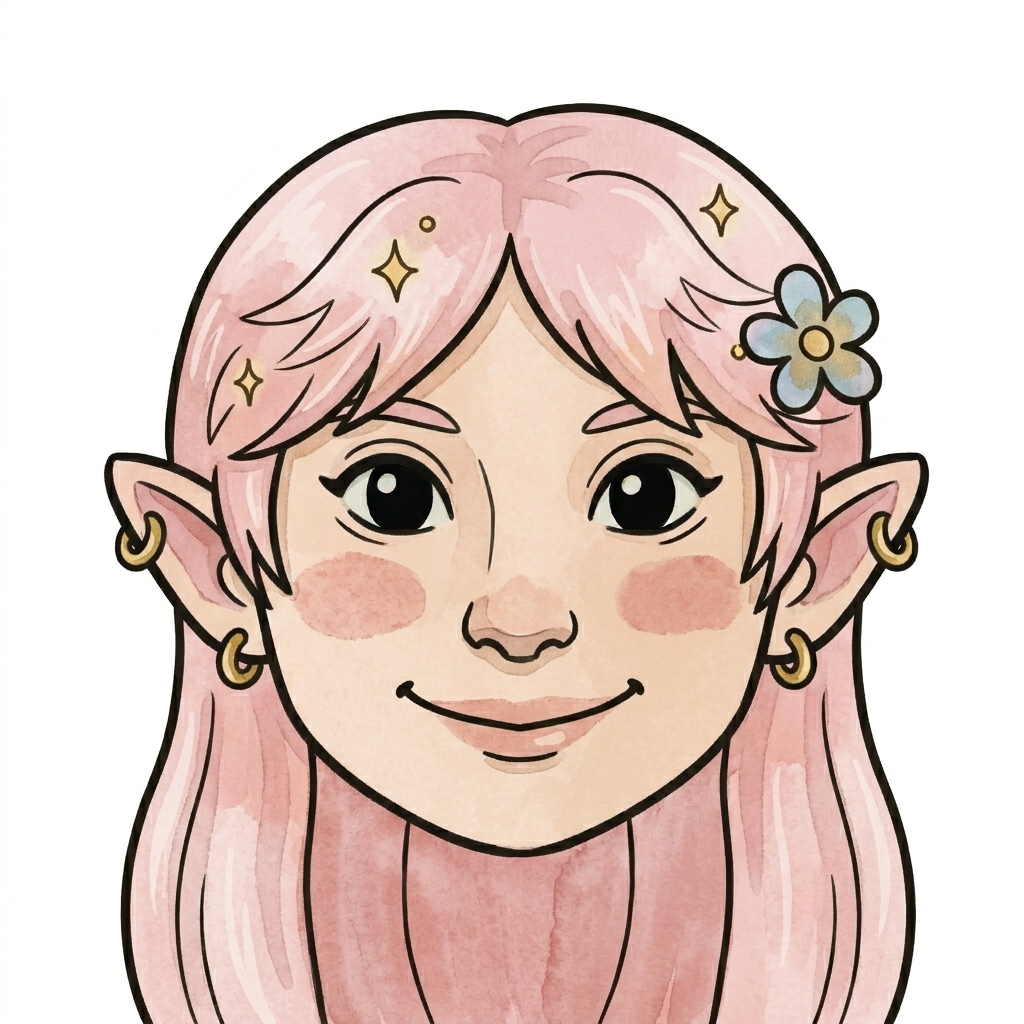
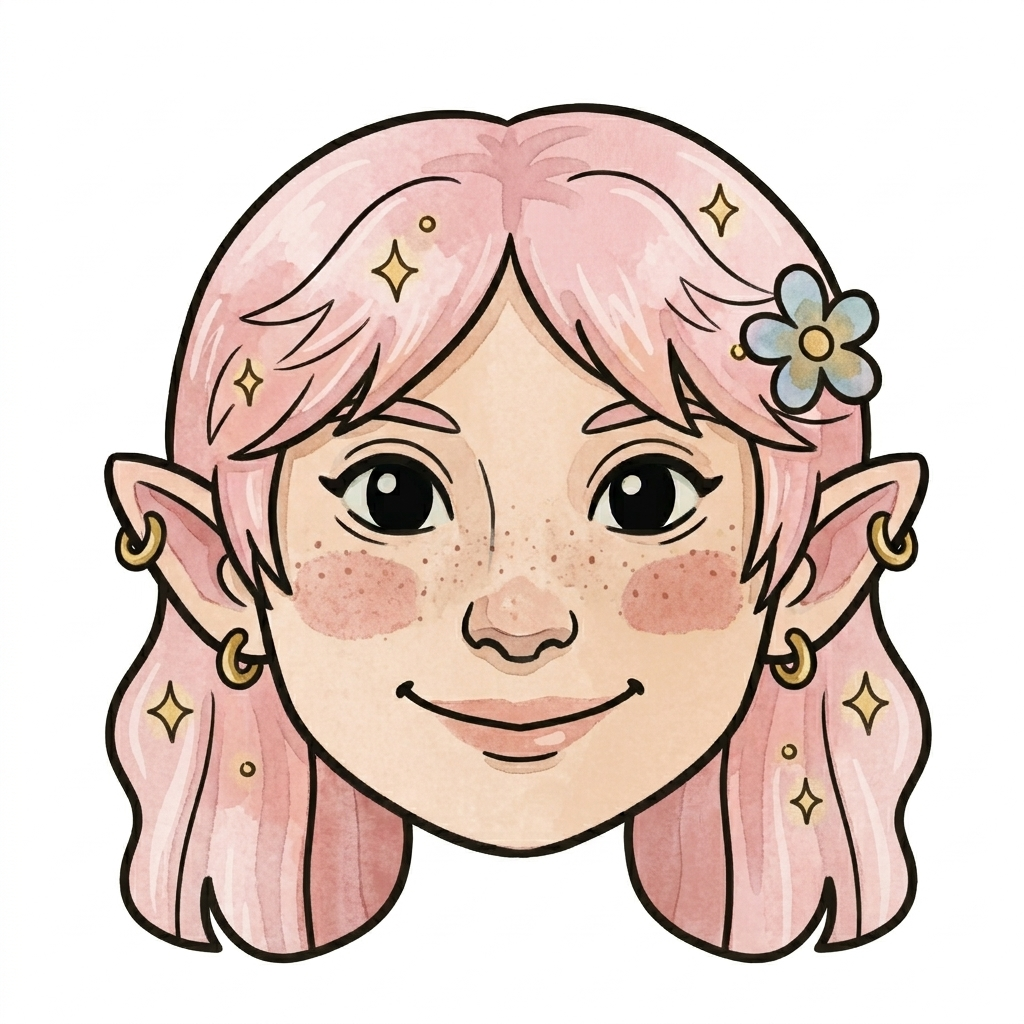
Hero parts: four redone heads; heads sit lower, chin on the collar
Claude-Session: https://claude.ai/code/session_01LEbABb8X44fsm1Xnjop8wr

diff --git a/tools/parts/sheet_heads.py b/tools/parts/sheet_heads.py
@@ -4,13 +4,15 @@ from join import cutout
 chins = json.load(open("heads.json"))
 body = cutout("body_fighter.jpg")
 S = 0.434
+import sys
+CHIN_AT = int(sys.argv[1]) if len(sys.argv) > 1 else 122
 def compose(name):
     head = cutout(f"head_{name}.jpg")
     hs = head.resize((int(1024 * S), int(1024 * S)), Image.LANCZOS)
     off = int(1024 * S)
     c = Image.new("RGBA", (1024, 1024 + off), (255, 255, 255, 0))
     c.alpha_composite(body, (0, off))
-    c.alpha_composite(hs, (512 - int(512 * S), off + 104 - int(chins[name] * S)))
+    c.alpha_composite(hs, (512 - int(512 * S), off + CHIN_AT - int(chins[name] * S)))
     return c
 ims = []
 for n in chins:

diff --git a/tools/parts/README.md b/tools/parts/README.md
@@ -5,6 +5,6 @@ The parts are drawn in Gemini by Doron and kept as they came in `parts/raw/`.
 
 - `join.py`: `cutout()` removes the white background by flood-filling from the image edges.
 - `heads.json`: each head's chin row in its 1024 px source image, the anchor for joining.
-- `sheet_heads.py`: puts every head on the fighter body at one shared scale (0.434), the chin at the body's neck (row 104).
+- `sheet_heads.py`: puts every head on the fighter body at one shared scale (0.434), the chin on the body's collar (row 124).
 
 Run from a folder holding the raw parts (these scripts expect `head_<name>.jpg` and `body_fighter.jpg` beside them).
